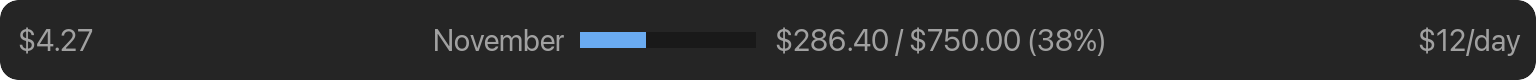
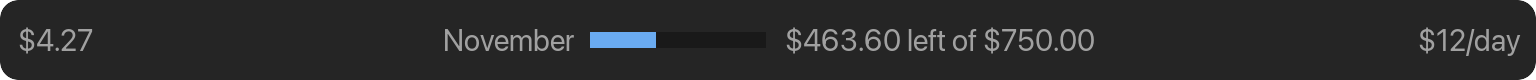
usage-meter 0.3.0: budget left on budget plans, 5-hour and weekly bars on subscriptions

Changed region(s): [[0.5, 0.35, 0.7188, 0.65], [0.2812, 0.35, 0.4375, 0.65]]

diff --git a/hooks/register.tsx b/hooks/register.tsx
@@ -18,17 +18,17 @@ type History = { cycleStart: number; samples: [number, number][] }
 type Toasted = { cycleStart: number; threshold: number }
 type Forecast = { rate: number; basis: string; runsOutAt: number | null; isEarly: boolean }
 type Tone = 'calm' | 'warn' | 'alert'
+// One bar in the middle of the band: the month's budget, or a plan's 5-hour or weekly limit
+type Meter = { key: string; label: string; percent: number; text: string; color?: string }
 
 // What the band above the prompt draws: set by refresh, drawn by the ui.render hook
 type Band = {
   // This session's cost, "$1.15"
   session: string
-  // The month's extra usage, when the plan has it
-  // name is the current month's, "November", drawn as the bar's label
-  month?: { name: string; percent: number; text: string }
-  // "5h 12% · 7d 40%", when the plan reports rate-limit windows
-  windows: string
-  // "$13/day", or "$42/day · runs out Oct 18" when the budget will run out before the month ends
+  // On a budget plan, one bar: the month's name and what is left, "November ▬▬ $410.25 left of $750.00".
+  // On a subscription, two: "5h ▬▬ 12%" and "week ▬▬ 40%".
+  meters: Meter[]
+  // Budget plans only: "$13/day", or "$42/day · runs out Oct 18" when the budget will run out before the month ends
   forecast: string
   tone: Tone
 }
@@ -37,6 +37,13 @@ let band: Band | null = null
 const money = (v: string | number | undefined, cur = 'USD', digits = 2) =>
   v === undefined ? '?' : (cur === 'USD' ? '$' : cur + ' ') + Number(v).toLocaleString('en-US', { minimumFractionDigits: digits, maximumFractionDigits: digits })
 const winName = (w: { name?: string; kind?: string; label?: string }) => w.label ?? w.name ?? ({ five_hour: '5h', seven_day: '7d', spend_limit: 'spend' } as Record<string, string>)[w.kind ?? ''] ?? w.kind ?? 'limit'
+
+type Window = NonNullable<Plan['windows']>[number]
+// The plan's 5-hour and all-models weekly windows, by kind, else by label. Per-model weekly windows are left out.
+const fiveHour = (ws: Window[]) => ws.find(w => w.kind === 'five_hour') ?? ws.find(w => /\b5\s*-?\s*h/i.test(winName(w)))
+const weekly = (ws: Window[]) => ws.find(w => w.kind === 'seven_day') ?? ws.find(w => /week|\b7\s*-?\s*d/i.test(winName(w)) && !/opus|sonnet|haiku|fable|model/i.test(winName(w)))
+// A limit's bar turns yellow at 75% and red at 90%
+const limitColor = (pct: number) => (pct >= 90 ? 'red' : pct >= 75 ? 'yellow' : undefined)
 
 const fmtDate = (ms: number) => new Date(ms).toLocaleDateString('en-US', { month: 'short', day: 'numeric' })
 const startOfMonth = (ms: number) => { const d = new Date(ms); d.setDate(1); d.setHours(0, 0, 0, 0); return d.getTime() }
@@ -113,20 +120,36 @@ async function maybeToast($: any, x: NonNullable<Plan['extraUsage']>, cycleStart
 async function refresh($: any): Promise<boolean> {
   const app = await appPlan($)
   const s = await sessionPlan($)
-  const plan = app ?? s.plan
-  const x = plan.extraUsage
+  const x = app?.extraUsage
+  // The app's windows, else the ones the session's last response reported (in a terminal the app's tool is not there)
+  const windows = (app?.windows?.length ? app.windows : s.plan.windows ?? []).filter(w => w.percentUsed !== undefined)
   const next: Band = {
     session: s.cost !== undefined ? `$${s.cost.toFixed(2)}` : '',
-    windows: (plan.windows ?? []).filter(w => w.percentUsed !== undefined).map(w => `${winName(w)} ${w.percentUsed}%`).join(' · '),
+    meters: [],
     forecast: '',
     tone: 'calm',
   }
-  if (x?.enabled && x.percentUsed !== undefined) next.month = { name: new Date(await $.clock.now()).toLocaleDateString('en-US', { month: 'long' }), percent: x.percentUsed, text: `${money(x.spent, x.currency)} / ${money(x.monthlyLimit, x.currency)} (${x.percentUsed}%)` }
+  // A subscription has 5-hour and weekly limits: show how much of each is used
+  const limits = [['five', '5h', fiveHour(windows)], ['week', 'week', weekly(windows)]] as const
+  for (const [key, label, w] of limits) {
+    if (w) next.meters.push({ key, label, percent: w.percentUsed!, text: `${Math.round(w.percentUsed!)}%`, color: limitColor(w.percentUsed!) })
+  }
+  // A budget plan has no such limits, only the month's budget: show what is left of it
+  const budget = !next.meters.length && x?.enabled && x.percentUsed !== undefined ? x : undefined
+  if (budget) {
+    const left = budget.spent !== undefined && budget.monthlyLimit !== undefined ? Math.max(0, Number(budget.monthlyLimit) - Number(budget.spent)) : undefined
+    next.meters.push({
+      key: 'month',
+      label: new Date(await $.clock.now()).toLocaleDateString('en-US', { month: 'long' }),
+      percent: budget.percentUsed!,
+      text: left !== undefined ? `${money(left, budget.currency)} left of ${money(budget.monthlyLimit, budget.currency)}` : `${budget.percentUsed}%`,
+    })
+  }
   // The forecast and the toasts need the month's spend and limit; they are quiet when they cannot be made
-  if (x?.enabled && x.spent !== undefined && x.monthlyLimit !== undefined) {
+  if (budget && budget.spent !== undefined && budget.monthlyLimit !== undefined) {
     try {
-      const spent = Number(x.spent)
-      const limit = Number(x.monthlyLimit)
+      const spent = Number(budget.spent)
+      const limit = Number(budget.monthlyLimit)
       const now = await $.clock.now()
       const h = await track($, spent)
       const f = forecast(spent, limit, now, h)
@@ -134,16 +157,19 @@ async function refresh($: any): Promise<boolean> {
         next.forecast = 'limit reached'
         next.tone = 'alert'
       } else if (f) {
-        next.forecast = forecastShort(f, x.currency ?? 'USD')
+        next.forecast = forecastShort(f, budget.currency ?? 'USD')
         const daysLeft = f.runsOutAt === null ? Infinity : (f.runsOutAt - now) / DAY
         next.tone = f.isEarly ? (daysLeft <= 7 ? 'alert' : 'warn') : 'calm'
       }
-      if (x.percentUsed !== undefined) await maybeToast($, x, h.cycleStart)
+      await maybeToast($, budget, h.cycleStart)
     } catch {
       // No history this time (the store failed): the figures still show
     }
   }
-  band = next.session || next.month || next.windows ? next : null
+  // The budget's bar takes the forecast's colour
+  const month = next.meters.find(m => m.key === 'month')
+  if (month) month.color = toneColor(next.tone)
+  band = next.session || next.meters.length ? next : null
   $.ui.invalidate('ui.render')
   return app !== null
 }
@@ -188,29 +214,32 @@ export const register: Register = on => {
     const { Box, Text } = $.ui.resolve(e)
     const theirs = await next(e)
     const color = toneColor(b.tone)
-    const left = [b.session, b.windows].filter(Boolean).join(' · ')
-    // Three columns: the session on the left, the month's bar and figures in the middle of the band, the daily rate on the right.
+    // Three columns: the session on the left, the bars in the middle of the band, the daily rate on the right.
     // The two sides grow from zero width alike, so the middle column sits at the band's center whatever their text.
     return (
       <Box flexDirection="column">
         {theirs}
         <Box flexDirection="row" width="100%" columnGap={2} alignItems="center">
           <Box key="left" flexDirection="row" flexGrow={1} width={0}>
-            {left && <Text dimColor wrap="truncate-end">{left}</Text>}
+            {b.session && <Text dimColor wrap="truncate-end">{b.session}</Text>}
           </Box>
-          {b.month && (
-            <Box key="middle" flexDirection="row" columnGap={1} flexShrink={0} alignItems="center">
-              <Text dimColor>{b.month.name}</Text>
-              {e.surface === 'terminal' ? (
-                // A terminal draws block characters cleanly
-                <Text dimColor={b.tone === 'calm'} color={color}>{meter(b.month.percent)}</Text>
-              ) : (
-                // Elsewhere the characters draw as hatched boxes in the app's font: a slim bar of two Boxes, in the theme's track and fill
-                <Box key="meter" width={10} height={0.4} flexShrink={0} backgroundColor="userMessageBackground">
-                  <Box width={`${Math.max(0, Math.min(b.month.percent, 100))}%`} height={0.4} backgroundColor={color ?? 'suggestion'} />
+          {b.meters.length > 0 && (
+            <Box key="middle" flexDirection="row" columnGap={3} flexShrink={0} alignItems="center">
+              {b.meters.map(m => (
+                <Box key={m.key} flexDirection="row" columnGap={1} flexShrink={0} alignItems="center">
+                  <Text dimColor>{m.label}</Text>
+                  {e.surface === 'terminal' ? (
+                    // A terminal draws block characters cleanly
+                    <Text dimColor={!m.color} color={m.color}>{meter(m.percent)}</Text>
+                  ) : (
+                    // Elsewhere the characters draw as hatched boxes in the app's font: a slim bar of two Boxes, in the theme's track and fill
+                    <Box key="meter" width={10} height={0.4} flexShrink={0} backgroundColor="userMessageBackground">
+                      <Box width={`${Math.max(0, Math.min(m.percent, 100))}%`} height={0.4} backgroundColor={m.color ?? 'suggestion'} />
+                    </Box>
+                  )}
+                  <Text dimColor>{m.text}</Text>
                 </Box>
-              )}
-              <Text dimColor>{b.month.text}</Text>
+              ))}
             </Box>
           )}
           <Box key="right" flexDirection="row" flexGrow={1} width={0} justifyContent="flex-end">

diff --git a/tests/usage.test.ts b/tests/usage.test.ts
@@ -31,9 +31,42 @@ test('without the app tool the band falls back to figures from the session itsel
   stubs(on, null, [{ kind: 'five_hour', percentUsed: 12 }, { kind: 'seven_day', percentUsed: 40.5 }])
   await $.session.start({ surface: 'terminal', isInteractive: true, cwd: '/w' })
   const ui = await $.ui.mount({ plugin: 'usage-meter', component: 'AbovePrompt', surface: 'terminal', viewport: { columns: 100, rows: 30 }, props: { hasSurvey: false, isWorking: false, maxRows: 4, bodyColumns: 90, scroll: { offset: 0, bodyRows: 4 }, view: {} } } as any)
-  expect(await ui.find({ type: 'Text', text: '$1.23 · 5h 12% · 7d 40.5%' })).toBeDefined()
+  // The session's cost at the left, and the subscription's two limits as bars in the middle
+  expect(await ui.find({ key: 'left', text: '$1.23' })).toBeDefined()
+  expect(await ui.find({ key: 'five', text: /^5h.*12%$/ })).toBeDefined()
+  expect(await ui.find({ key: 'week', text: /^week.*41%$/ })).toBeDefined()
   // The context figure is gone: Claude reports it already
   expect(await ui.find({ type: 'Text', text: /context/ })).toBeUndefined()
+})
+
+const SUB = (windows: any[], extraUsage?: any) => ({ content: [{ type: 'text', text: JSON.stringify({ plan: { plan: 'Max', windows, extraUsage } }) }], isError: false })
+
+test('a subscription shows its 5-hour and weekly use as bars, and no budget or forecast', async ($, on) => {
+  const { toasts } = stubs(on, SUB(
+    [{ kind: 'five_hour', percentUsed: 82 }, { kind: 'seven_day', percentUsed: 40 }, { kind: 'seven_day_opus', label: 'Weekly (Opus)', percentUsed: 95 }],
+    // Extra usage on a subscription only begins when the limits run out: the limits are what show
+    { enabled: true, percentUsed: 60, spent: '30', monthlyLimit: '50', currency: 'USD' },
+  ))
+  await $.session.start({ surface: 'desktop', isInteractive: true, cwd: '/w' })
+  const ui = await $.ui.mount(BAND)
+  expect(await ui.find({ key: 'five', text: /^5h.*82%$/ })).toBeDefined()
+  expect(await ui.find({ key: 'week', text: /^week.*40%$/ })).toBeDefined()
+  // Per-model weekly limits are left out
+  expect(await ui.find({ type: 'Text', text: '95%' })).toBeUndefined()
+  // The 5-hour bar is yellow past 75%; the weekly one keeps the theme's fill
+  const fills: any[] = (await ui.findAll({ type: 'Box' })).filter((b: any) => b.props?.height === 0.4 && typeof b.props?.width === 'string')
+  expect(fills.map(f => [f.props.width, f.props.backgroundColor])).toEqual([['82%', 'yellow'], ['40%', 'suggestion']])
+  expect(await ui.find({ type: 'Text', text: /left of|\/day|November|October/ })).toBeUndefined()
+  expect(toasts).toEqual([])
+})
+
+test('a subscription in a terminal draws both limits in block characters', async ($, on) => {
+  stubs(on, SUB([{ kind: 'five_hour', percentUsed: 92 }, { kind: 'seven_day', percentUsed: 10 }]))
+  await $.session.start({ surface: 'terminal', isInteractive: true, cwd: '/w' })
+  const ui = await $.ui.mount({ ...BAND, surface: 'terminal' })
+  const five: any = await ui.find({ type: 'Text', text: /^█{9}░$/ })
+  expect(five.props.color).toBe('red')
+  expect(await ui.find({ type: 'Text', text: /^█░{9}$/ })).toBeDefined()
 })
 
 test('crossing 50% of the month toasts once, and steady figures stay quiet', async ($, on) => {
@@ -76,7 +109,7 @@ test('the band shows session and month with a slim bar on desktop', async ($, on
   const fill: any = (await ui.findAll({ type: 'Box' })).find((b: any) => b.props?.width === '25%')
   expect(fill).toBeDefined()
   expect(fill.props.backgroundColor).toBe('suggestion')
-  expect(await ui.find({ type: 'Text', text: '$190.59 / $750.00 (25%)' })).toBeDefined()
+  expect(await ui.find({ type: 'Text', text: '$559.41 left of $750.00' })).toBeDefined()
   // No text-drawn meter any more
   expect(await ui.find({ type: 'Text', text: /[█░]/ })).toBeUndefined()
 })
@@ -109,7 +142,7 @@ test('the band adds a short pace and date, in yellow when the budget runs out ea
   expect(tail).toBeDefined()
   expect(tail.props.color).toBe('yellow')
   // The bar sits in the middle column, between two sides that grow alike, and the rate in the right one
-  expect(await ui.find({ key: "middle", text: /\$190\.59 \/ \$750\.00/ })).toBeDefined()
+  expect(await ui.find({ key: "middle", text: /\$559\.41 left of \$750\.00/ })).toBeDefined()
   // On Oct 5 the bar's label is October
   expect(await ui.find({ key: 'middle', text: /^October/ })).toBeDefined()
   expect(await ui.find({ key: 'right', text: /runs out/ })).toBeDefined()
@@ -182,8 +215,8 @@ test('when the app tool is not connected at startup the month shows within a min
   on('mcp.call', () => (connected ? { value: APP } : { deny: 'not connected' }))
   await $.session.start({ surface: 'desktop', isInteractive: true, cwd: '/w' })
   const ui = await $.ui.mount(BAND)
-  expect(await ui.find({ type: 'Text', text: '$190.59 / $750.00 (25%)' })).toBeUndefined()
+  expect(await ui.find({ type: 'Text', text: '$559.41 left of $750.00' })).toBeUndefined()
   connected = true
   await clock.advance(10 * 1000 + 10)
-  expect(await ui.find({ type: 'Text', text: '$190.59 / $750.00 (25%)' })).toBeDefined()
+  expect(await ui.find({ type: 'Text', text: '$559.41 left of $750.00' })).toBeDefined()
 })

diff --git a/README.md b/README.md
@@ -1,16 +1,18 @@
-<img src="docs/band.png" alt="The usage-meter band: $4.27 for the session at the left, November's bar at 38% with $286.40 / $750.00 in the middle, and $12/day at the right">
+<img src="docs/band.png" alt="The usage-meter band on a budget plan: $4.27 for the session at the left, November's bar at 38% with $463.60 left of $750.00 in the middle, and $12/day at the right">
 
 # usage-meter <img src=".claude-plugin/icon.png" align="right" width="120" alt="" />
 
-A Claude Code mod that shows your usage in a row above the prompt.
+A Claude Code mod that shows your usage in a row above the prompt. What it shows depends on your plan.
 
 - **Session cost** at the left: what the current session has cost so far.
-- **Monthly extra usage** against its limit, with a slim bar (block characters in a terminal).
-- **Forecast** at the right edge: the daily rate over the last 7 days (or the month so far). If the limit will run out before the month ends, it adds that date (`$42/day · runs out Nov 24`). The bar and forecast turn yellow, then red, as that date gets closer.
-- A **toast** the first time the month's usage crosses 50%, 75% and 90%, once per month across all your sessions.
+- **On a budget plan** (a monthly extra-usage limit, as on Enterprise): a slim bar for the month and how much of the budget is left (block characters in a terminal).
+  - **Forecast** at the right edge: the daily rate over the last 7 days (or the month so far). If the budget will run out before the month ends, it adds that date (`$42/day · runs out Nov 24`). The bar and forecast turn yellow, then red, as that date gets closer.
+  - A **toast** the first time the month's usage crosses 50%, 75% and 90%, once per month across all your sessions.
+- **On a subscription** (Pro or Max): two bars, for the current 5-hour session and for the week. Each bar turns yellow at 75% and red at 90%.
 
+<img src="docs/band-subscription.png" alt="The usage-meter band on a subscription: $4.27 for the session at the left, then a 5h bar at 34% and a week bar at 61%">
 
-> **Note:** The monthly figures come from the Claude desktop app's usage tool. In the desktop app's Code tab you get everything. In `claude` in a plain terminal, you get the session cost and the rate-limit windows, but not the monthly budget.
+> **Note:** The monthly budget comes from the Claude desktop app's usage tool, so it shows only in the desktop app's Code tab. In `claude` in a plain terminal, you get the session cost and, on a subscription, the 5-hour and weekly bars.
 
 ## Install
 
